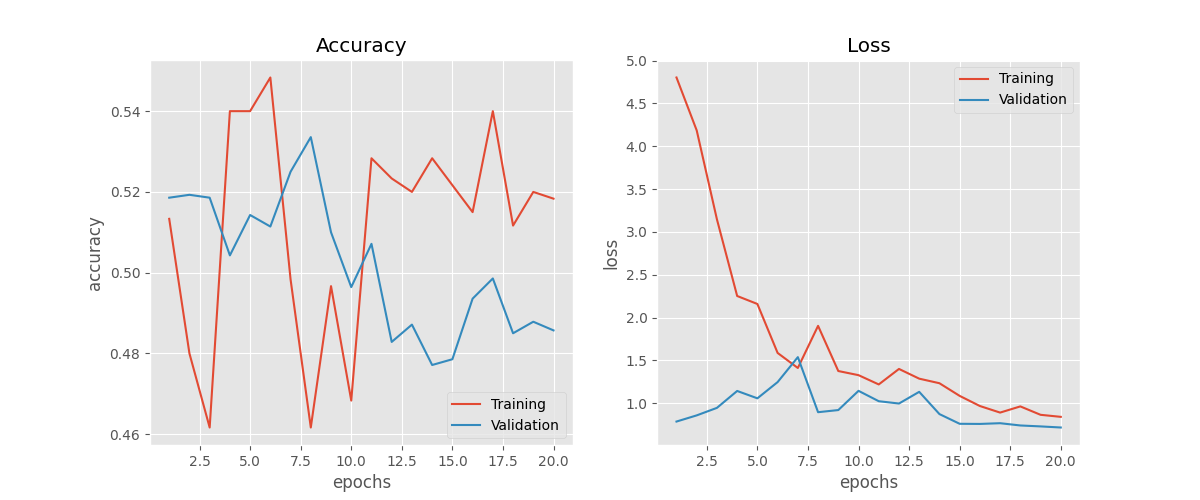
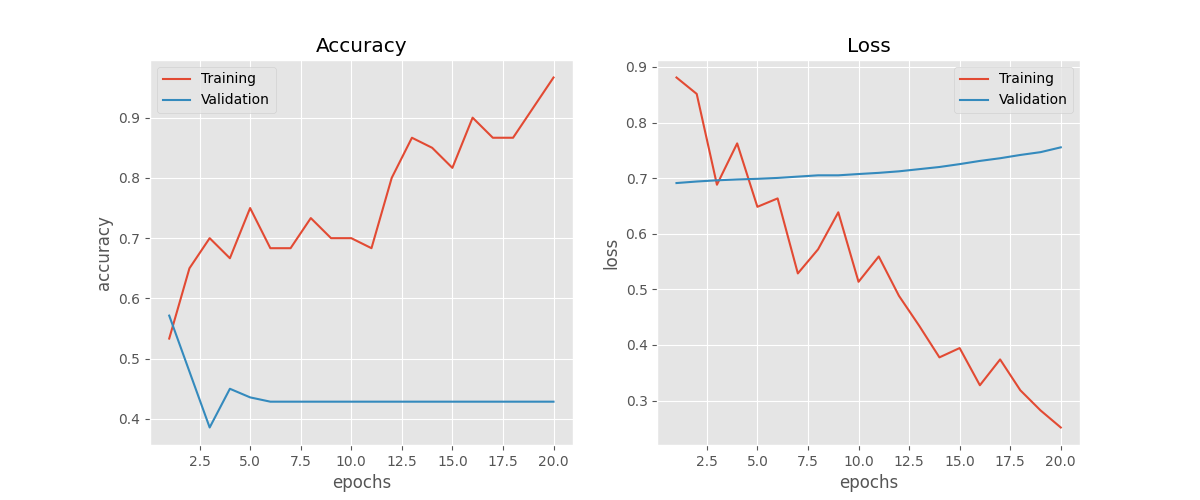
add

diff --git a/tti_experiment.py b/tti_experiment.py
@@ -24,20 +24,23 @@ from tensorflow.keras.callbacks import TensorBoard
 from image_dataloader import imageLoader
 from model.word2vec import Word2Vec
 from text_to_image import TextToImage
+import cv2
 from model.cnn import get_model
 from model.neural_network import create_cnn
 
 imdb_path = "data/preprocessed_imdb.csv"
 df = pd.read_csv(imdb_path)
 
-X = np.array(df["lematized_tokens"])[:2000]
-y = np.array(df["sentiment"])[:2000]
+X = np.array(df["lematized_tokens"])[:200]
+y = np.array(df["sentiment"])[:200]
 
-tti = TextToImage(vector_size=100, min_count=1, max_length=400)
+tti = TextToImage(vector_size=100, min_count=1, max_length=500)
 X = tti._word2vec(X)
 
+new_size = (50, 50)
 
 print(X.shape)
+X = np.array([cv2.resize(x, new_size) for x in X])
 
 X_train, X_test, y_train, y_test = train_test_split(X, y, train_size=0.3)
 
